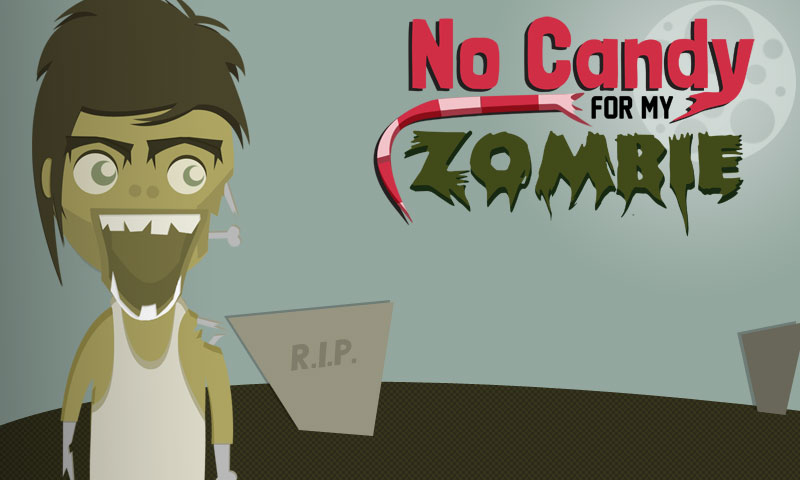
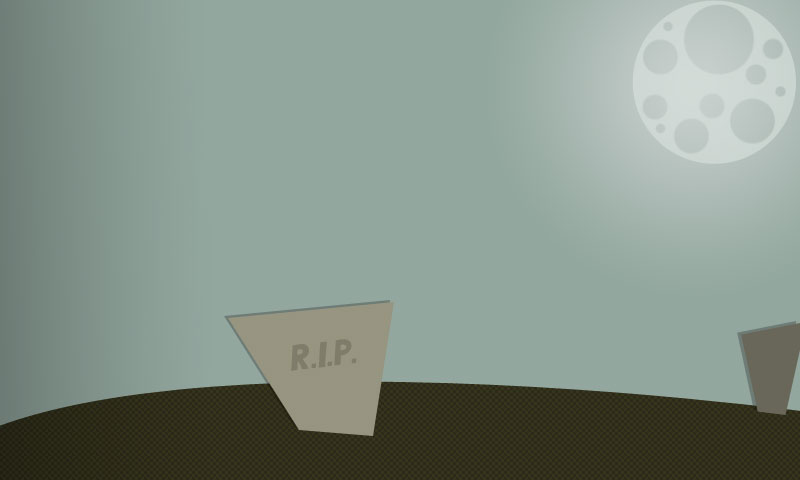
4
4

diff --git a/css/stylesheet.css b/css/stylesheet.css
@@ -258,16 +258,31 @@ filter:alpha(opacity=100);
 }
 
 #zombie{
-background-image:url('../img/zombie.png');
+background:transparent url('../img/zombie.png') 0 0 no-repeat;
 visibility:visible;
 width:218px;
 height:480px;
 position:absolute;
 border:0;
-left:6%;
+margin-left:6%;
 opacity:1.0;
 filter:alpha(opacity=100);
 }
+
+#zombie_gameplay{
+background:transparent url('../img/zombie_sprite.png') 0 0 no-repeat;
+visibility:visible;
+width:218px;
+height:480px;
+position:absolute;
+border:0;
+margin-left:6%;
+}
+
+#zombie_gameplay:active{
+background:transparent url('../img/zombie_sprite.png') -218px 0 no-repeat;
+}
+
 
 .ui-page { -webkit-backface-visibility: hidden; }
 
@@ -290,10 +305,94 @@ height:100%;
 }
  
  
- #jquery_player{
+.logotype{
+background-image:url('../img/logotype.png');
+width:382px;
+height:221px;
+position:absolute;
+margin-left:23%;
+margin-top:1%;
 
+-webkit-animation-name: logotype;
+-webkit-animation-duration: 6s;
+-webkit-transform-origin:50% 50%;
+-webkit-animation-iteration-count: infinite;
+-webkit-animation-timing-function: linear;
+
+-o-animation-name: logotype;
+-o-animation-duration: 6s;
+-o-transform-origin:50% 50%;
+-o-animation-iteration-count: infinite;
+-o-animation-timing-function: linear;
+
+-moz-animation-name: logotype;
+-moz-animation-duration: 6s;
+-moz-transform-origin:50% 50%;
+-moz-animation-iteration-count: infinite;
+-moz-animation-timing-function: linear;
+
+animation-name: logotype;
+animation-duration: 6s;
+transform-origin:50% 50%;
+animation-iteration-count: infinite;
+animation-timing-function: linear;
  }
 
 
 /*-----------------------Animations---------------------------- */
 
+@-o-keyframes logotype {
+	0% { -o-transform: translate(2px, 1px) rotate(0deg); }
+	10% { -o-transform: translate(-1px, -2px) rotate(-1deg); }
+	20% { -o-transform: translate(-3px, 0px) rotate(1deg); }
+	30% { -o-transform: translate(0px, 2px) rotate(0deg); }
+	40% { -o-transform: translate(1px, -1px) rotate(1deg); }
+	50% { -o-transform: translate(-1px, 2px) rotate(-1deg); }
+	60% { -o-transform: translate(-3px, 1px) rotate(0deg); }
+	70% { -o-transform: translate(2px, 1px) rotate(-1deg); }
+	80% { -o-transform: translate(-1px, -1px) rotate(1deg); }
+	90% { -o-transform: translate(2px, 2px) rotate(0deg); }
+	100% { -o-transform: translate(1px, -2px) rotate(-1deg); }
+}
+
+@-moz-keyframes logotype {
+	0% { -moz-transform: translate(2px, 1px) rotate(0deg); }
+	10% { -moz-transform: translate(-1px, -2px) rotate(-1deg); }
+	20% { -moz-transform: translate(-3px, 0px) rotate(1deg); }
+	30% { -moz-transform: translate(0px, 2px) rotate(0deg); }
+	40% { -moz-transform: translate(1px, -1px) rotate(1deg); }
+	50% { -moz-transform: translate(-1px, 2px) rotate(-1deg); }
+	60% { -moz-transform: translate(-3px, 1px) rotate(0deg); }
+	70% { -moz-transform: translate(2px, 1px) rotate(-1deg); }
+	80% { -moz-transform: translate(-1px, -1px) rotate(1deg); }
+	90% { -moz-transform: translate(2px, 2px) rotate(0deg); }
+	100% { -moz-transform: translate(1px, -2px) rotate(-1deg); }
+}
+
+@-webkit-keyframes logotype {
+	0% { -webkit-transform: translate(2px, 1px) rotate(0deg); }
+	10% { -webkit-transform: translate(-1px, -2px) rotate(-1deg); }
+	20% { -webkit-transform: translate(-3px, 0px) rotate(1deg); }
+	30% { -webkit-transform: translate(0px, 2px) rotate(0deg); }
+	40% { -webkit-transform: translate(1px, -1px) rotate(1deg); }
+	50% { -webkit-transform: translate(-1px, 2px) rotate(-1deg); }
+	60% { -webkit-transform: translate(-3px, 1px) rotate(0deg); }
+	70% { -webkit-transform: translate(2px, 1px) rotate(-1deg); }
+	80% { -webkit-transform: translate(-1px, -1px) rotate(1deg); }
+	90% { -webkit-transform: translate(2px, 2px) rotate(0deg); }
+	100% { -webkit-transform: translate(1px, -2px) rotate(-1deg); }
+}
+
+@keyframes logotype {
+	0% { transform: translate(2px, 1px) rotate(0deg); }
+	10% { transform: translate(-1px, -2px) rotate(-1deg); }
+	20% { transform: translate(-3px, 0px) rotate(1deg); }
+	30% { transform: translate(0px, 2px) rotate(0deg); }
+	40% { transform: translate(1px, -1px) rotate(1deg); }
+	50% { transform: translate(-1px, 2px) rotate(-1deg); }
+	60% { transform: translate(-3px, 1px) rotate(0deg); }
+	70% { transform: translate(2px, 1px) rotate(-1deg); }
+	80% { transform: translate(-1px, -1px) rotate(1deg); }
+	90% { transform: translate(2px, 2px) rotate(0deg); }
+	100% { transform: translate(1px, -2px) rotate(-1deg); }
+}

diff --git a/index.html b/index.html
@@ -16,14 +16,13 @@
         <script type="text/javascript" src="js/jquery.mobile-1.2.0.min.js"></script>
 		<script type="text/javascript" src="js/box2d-web-2.1.a.3.js"></script>
 		<script type="text/javascript" src="js/jcanvas.min.js"></script>
-		<script type="text/javascript" src="js/fabric.0.9.15.min.js"></script>
 		<script type="text/javascript" src="js/jquery.jplayer.min.js"></script>
+	
 		
-		
-		<script type="text/javascript">
+	<script type="text/javascript">
 
 	$(document).ready(function() {
-
+	
 	function preventBehavior(e) {
     e.preventDefault(); 
 	};
@@ -39,31 +38,6 @@
 		touchEvent.preventDefault();     //THIS IS THE KEY. You can read the difficult doc released by W3C to learn more.
 	}};
 	
-	/*
-	setTimeout(function (){
-		var w1 = $(window).width();
-		$('meta[name="viewport"]').remove();//remove previous metatag (no reason just so we keep it clean)
-		var px = 480;//target width to achieve
-		var x = 320/w1;// calculate ratio (320 is the width set by viewport on head->meta,
-		var out = Math.floor(px*x);//outcome..
-		// var out = Math.floor( (32/ w1) * 480 )// alternative shortcode remove the 3 lines above :) 
-		$('').appendTo('head');//insert the new meta tag on the head 
-	},250);
-	*/
-
-	
-	
-pause: function () {
-		  $('#button_music_on').click(function () {
-				$("#jquery_jplayer").jPlayer('play');
-		  })
-		},
-		play: function () {
-		$('#button_music_on').click(function () {
-				$("#jquery_jplayer").jPlayer('pause');
-		})}
-
-
     </script>
 		
     <script type="text/javascript">
@@ -88,14 +62,15 @@ pause: function () {
     });
   </script>  
         
-      
     
     </head>
     <body>
 	<div id="jquery_jplayer" class="jp-jplayer"></div>
 	
       <div data-role="page" id="home" class="welcome_screen" >
-     
+	  <!--Actual zombies-->
+			<div id="zombie"></div>
+		<div class="logotype"></div>
          <!--Welcome Screen-->
         <div data-role="content" class="buttons_welcome_screen">
 
@@ -166,11 +141,16 @@ pause: function () {
 					
 					<div class="overlay">
 					<div class="overlay_begin" onClick="$(this).toggle();"></div>
+					
+					  <!--Gameplay Zombie-->
+						<div id="zombie_gameplay"></div>
 						<a href="#home" data-role="button" data-transition="fade">
 							<div class="button_back"></div>
 						</a>
 							<div class="button_pause" onClick="$('.overlay_begin').toggle();"></div>
 					</div>
+					
+					
 				
 			</div>
 		</div>
